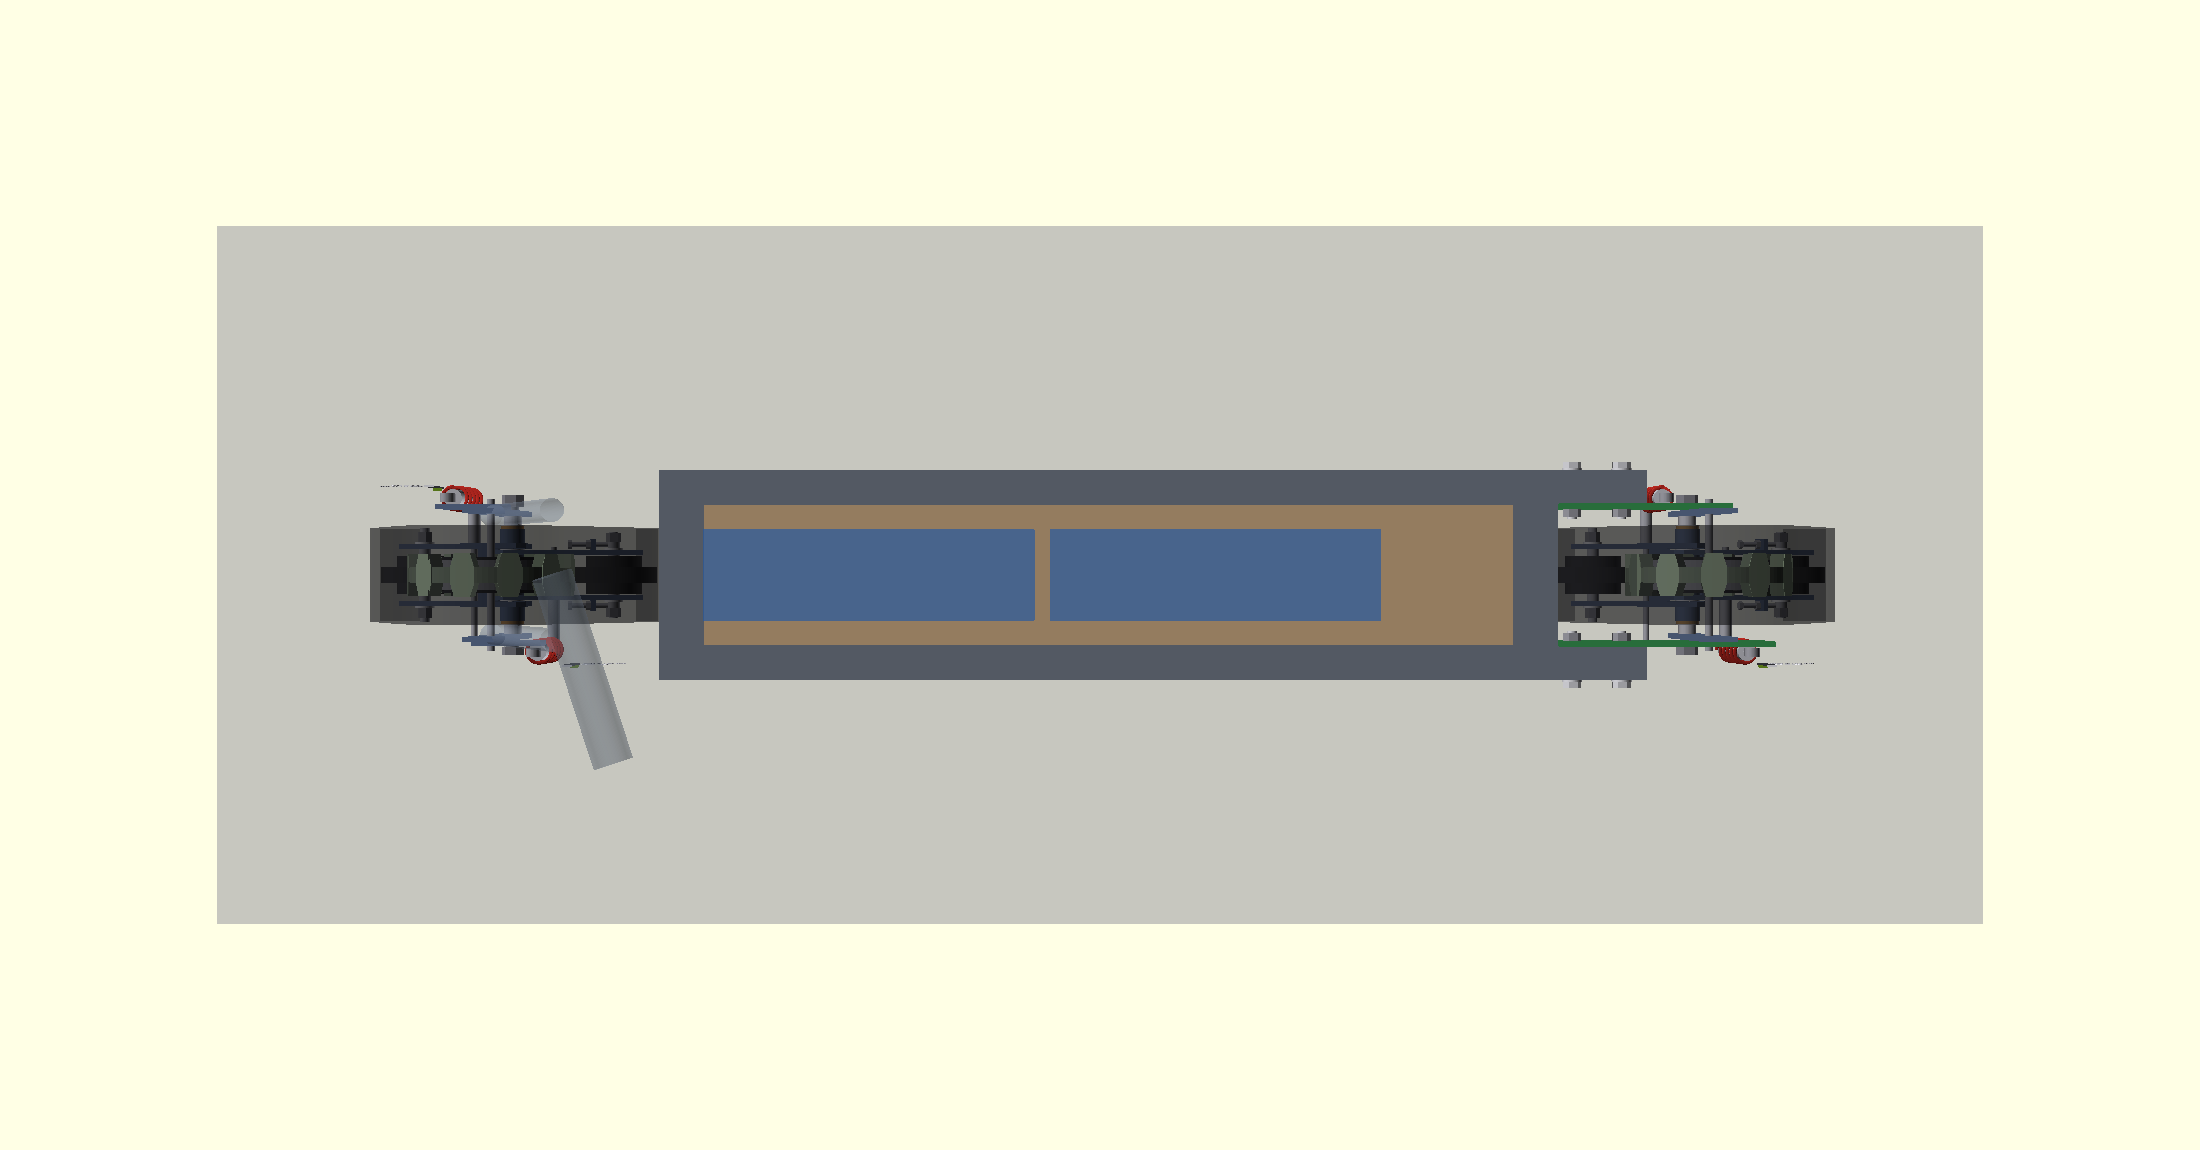
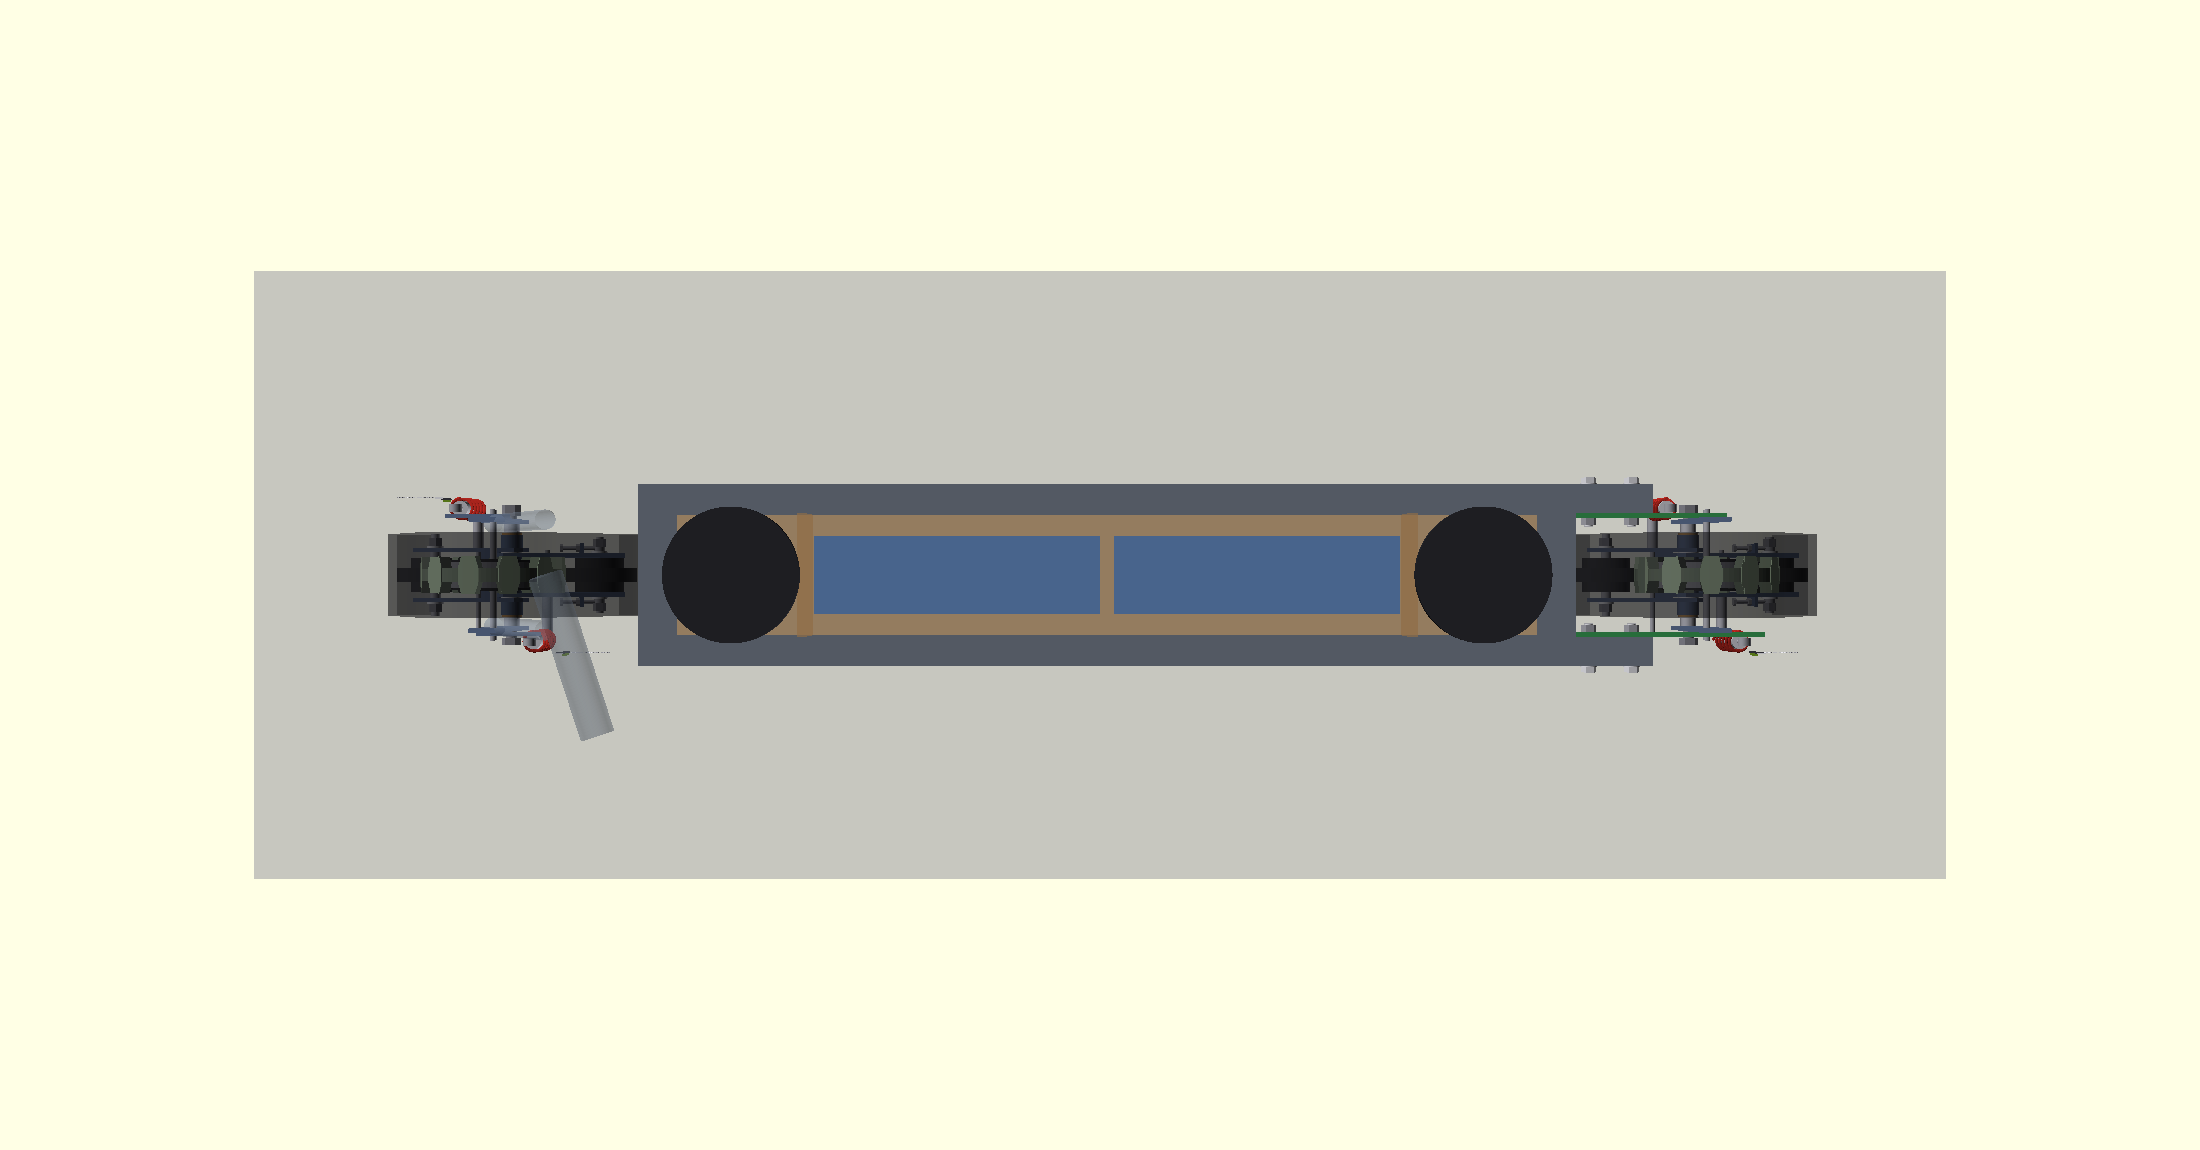
Rev 012: two 6.5" speakers firing up through the deck
The owner asked for a speaker at each end of the deck. They cannot go between
the fork legs: that gap is 140 mm inside, the belt already takes 118 of it, and
the front pod's belt crown sits 58 mm above the deck and turns with the bars.

So each speaker sits in a well inside the bay, firing up through the lid. The
well is made of parts that already exist - the two rail inner faces are its
sides, the tray is its floor, the lid is its top and the cross member is its
outer end. The only new part is one 12 mm plywood bulkhead per well, sealing it
off from the batteries. About 2.7 litres of air behind each driver.

The bay now has to hold the packs and both wells, so bay_len is the larger of
bay_len_set and bay_pack_len + 2 wells: 1226 clear. Wheelbase 1480 -> 1706,
rails 1187 -> 1413, lid and tray 1080 -> 1306, chassis 18.2 -> 21.3 kg.

Everything is driven by spk_cut_d, the hole the driver needs. It is set to the
owner's Ø165, which raises one WARN: that leaves only 3.5 mm to the rail in a
172 mm bay. Most 6.5" drivers with a Ø165 rim cut nearer Ø147, which would give
12.5 mm and pull the wheelbase back in. The number is marked TBD MEASURE.

New guards: hole edge to the rail, rim to the lid edge, air under the cone, and
plywood left beside the hole. All other guards still PASS. The green plate DXF
and the 1:1 template PDFs are unchanged - the rear pod joint does not move.

Changed region(s): [[0.0927, 0.1826, 0.9273, 0.8217], [0.1545, 0.3957, 0.8345, 0.6696]]

diff --git a/README.md b/README.md
@@ -8,7 +8,8 @@ files live in the per-revision folders. Every future change lands in the live re
 **[`archive/rev012-inline-batteries/`](archive/rev012-inline-batteries/) — Rev 012, live.** The pod is
 Rev 011 (below, unchanged). Rev 012 adds the scratch-built **narrow frame**: two 100×40×2 rails bolted
 straight onto the rear pod's 60×6 green plates (4× M12), the two 400×110×80 batteries in line between
-them in a 1000 mm clear bay, wheelbase 1480, chassis ~18 kg. `render_mode="chassis"`; printable green-plate templates:
+them, and a 6.5″ speaker firing up through the deck at each end. Bay 1226 clear, wheelbase 1706,
+chassis ~21 kg. `render_mode="chassis"`; printable green-plate templates:
 `rev012_green_plate_templates.pdf`.
 
 **Pod — Rev 011** (source folder [`archive/rev011-uncut-11T-lowB/`](archive/rev011-uncut-11T-lowB/)):
